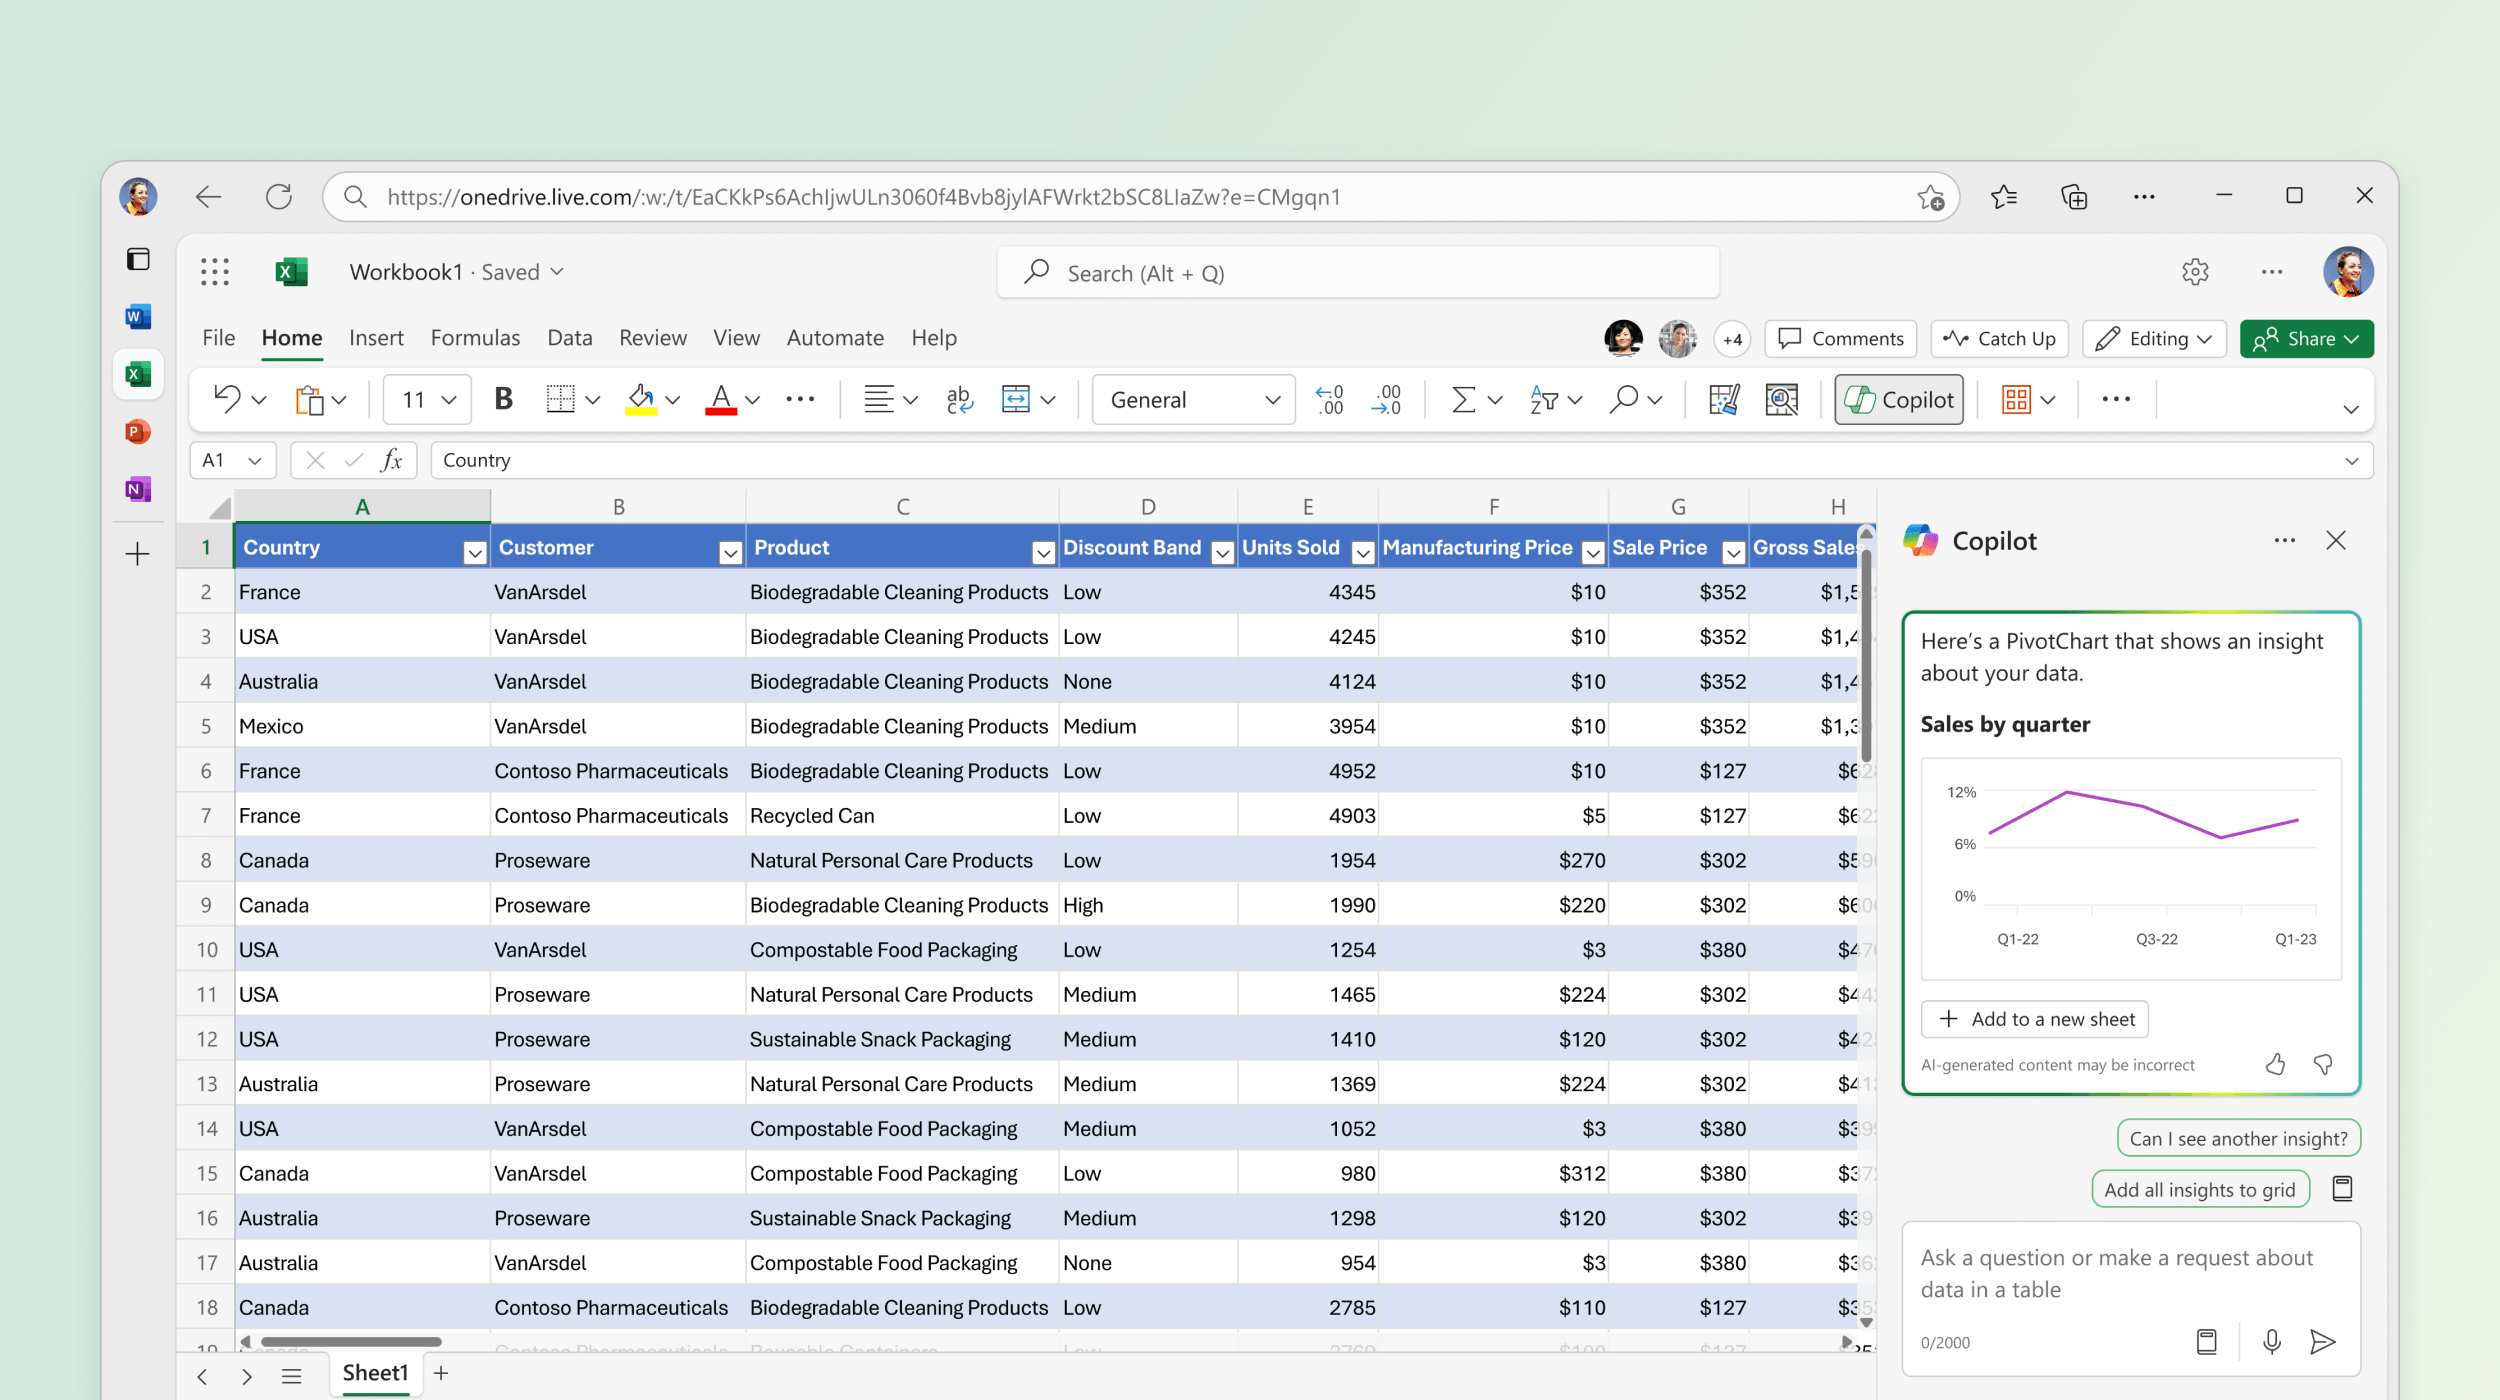
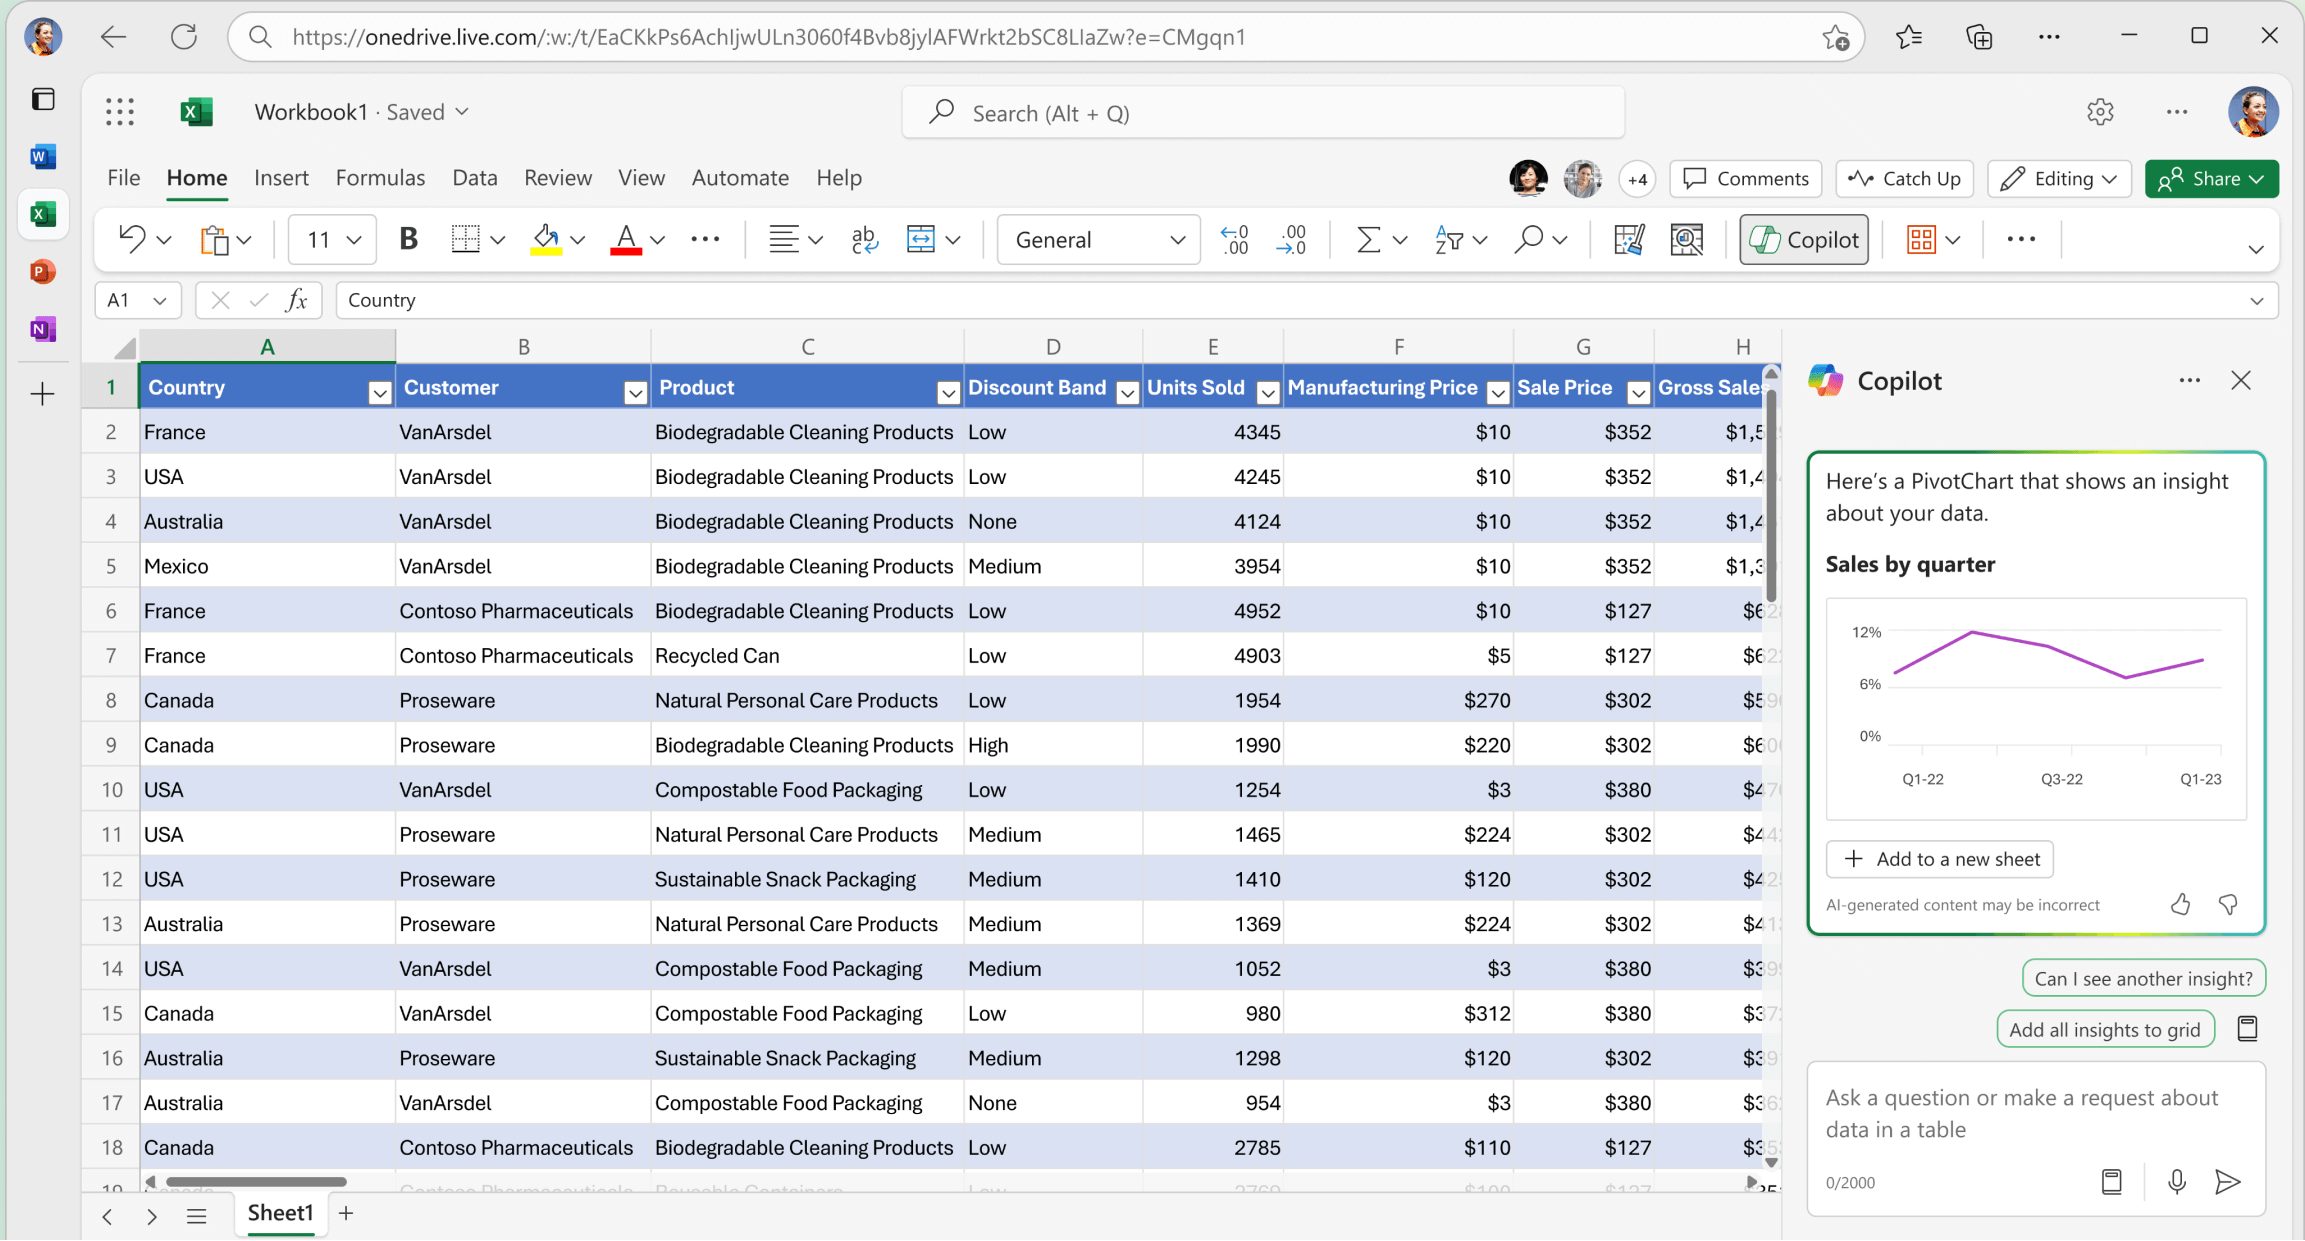
Modified all existing files
- Resized the picture
- Edited Readme
- Changed xlsx file to csv

diff --git a/README.md b/README.md
@@ -1,2 +1,4 @@
 # git_recap
 Learning version control using Github and Github desktop.
+
+I cloned the repo and started working from my local machine.
